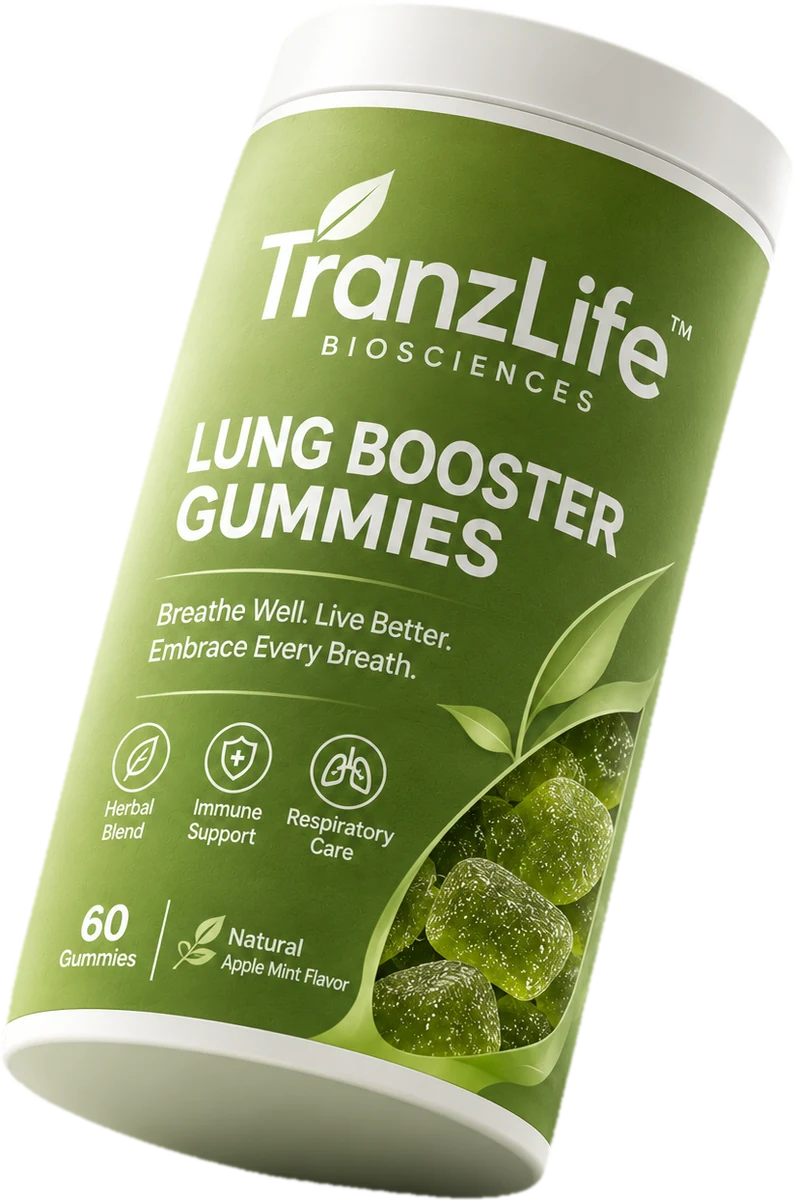
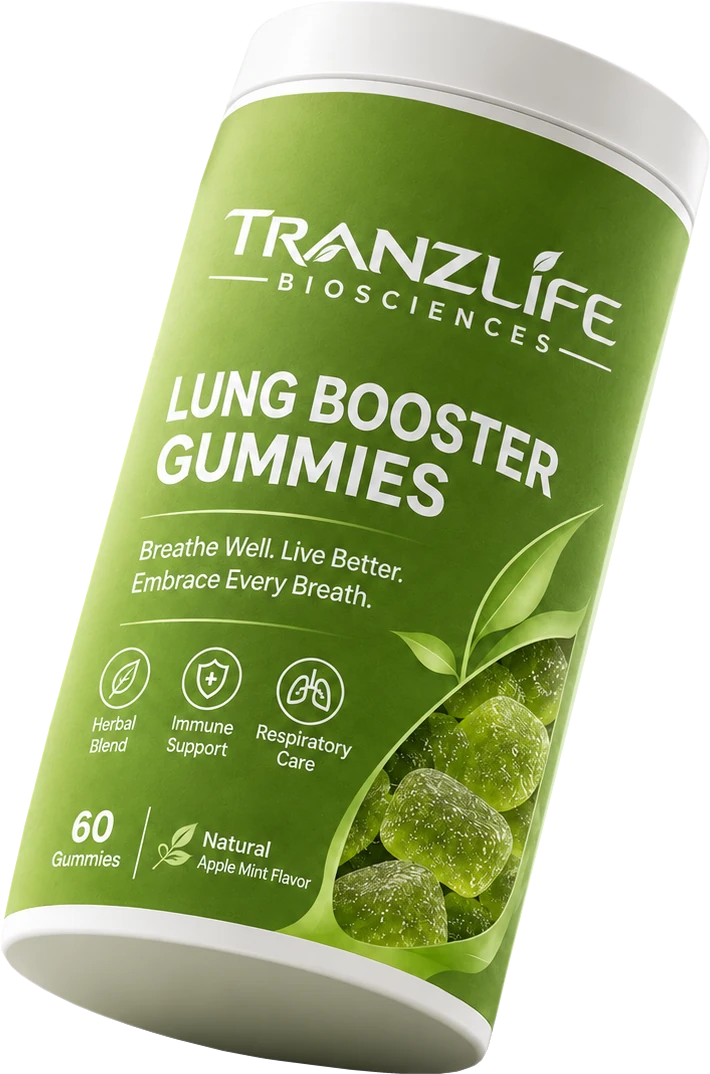
New gummies photo, shop cards without "TranzLife", Reviva card for diabetics
- New Lung Booster Gummies shop photo and cut-out (TRANZLIFE BIOSCIENCES tub)
- Shop card titles drop the "TranzLife" prefix (data names unchanged)
- Gummies story card titled "Lung booster gummies" instead of "Breathe well"
- Reviva story card: "For diabetics" label and description

diff --git a/src/data/product-story.js b/src/data/product-story.js
@@ -1,9 +1,10 @@
 // Product story cards (one per product, same order as PRODUCTS). Facts from the client's product sheet (Nov 2026).
 const STORY = [
-  { t:['Breathe', 'well'], d:'Sixty berry-flavoured PulmoClear gummies: Ayurvedic botanicals with Vitamin C, D3 and Zinc, for everyday respiratory wellness.', note:'Embrace every breath ♡', ic:'leaf', c:'#7a9e45' },
+  { t:['Lung booster', 'gummies'], d:'Sixty berry-flavoured PulmoClear gummies: Ayurvedic botanicals with Vitamin C, D3 and Zinc, for everyday respiratory wellness.', note:'Embrace every breath ♡', ic:'leaf', c:'#7a9e45' },
   { t:['Breathe', 'free'], d:'Six essential oils in a pocket inhaler. Slow, deep breaths whenever stress or a craving comes, on your way to a smoke-free life.', note:'Pocket-sized & discreet', ic:'lotus', c:'#38a58b' },
   { t:['Cycle', 'comfort'], d:'Wintergreen, peppermint, ginger, lavender and eucalyptus in a pocket roll-on, for a soothing self-care routine during your cycle.', note:'Keep one in your bag', ic:'flower', c:'#d6969f' },
-  { t:['Revive', 'daily'], d:'Dill and eucalyptus essential oils in a massage roll-on, for a refreshing morning self-care ritual.', note:'Balance. Restore. Revitalize.', ic:'spark', c:'#4d8b47' },
+  // flag: a pill under the title saying who the product is for (Reviva is made for people with diabetes, as its pack says)
+  { t:['Revive', 'daily'], flag:'For diabetics', d:'Made for people with diabetes: dill and eucalyptus essential oils in a massage roll-on, for a refreshing morning self-care ritual.', note:'Balance. Restore. Revitalize.', ic:'spark', c:'#4d8b47' },
   { t:['Liver', 'care'], d:'Eleven traditional botanicals in a polyherbal liquid, to support normal liver function, digestion and everyday well-being.', note:'Liver care, naturally', ic:'drop', c:'#a4b955' },
   { t:['Everyday', 'energy'], d:'A herbal and bioactive oral liquid, designed to support everyday energy and stamina alongside an active lifestyle.', note:'Made for active days', ic:'sun', c:'#c98a3c' }
 ];

diff --git a/src/products-page/data/product-story.js b/src/products-page/data/product-story.js
@@ -1,6 +1,6 @@
 // Product story cards for the Products page (one per product, same order as PRODUCTS).
 const STORY = [
-  { t:['Breathe', 'well'], d:'Tulsi, Vasaka, dry ginger and long pepper with vitamin C, D3 and zinc, in an easy berry-flavoured gummy.', note:'Embrace every breath ♡', ic:'leaf', c:'#e49a52' },
+  { t:['Lung booster', 'gummies'], d:'Tulsi, Vasaka, dry ginger and long pepper with vitamin C, D3 and zinc, in an easy berry-flavoured gummy.', note:'Embrace every breath ♡', ic:'leaf', c:'#e49a52' },
   { t:['Breathe', 'free'], d:'Six essential oils in a pocket inhaler, for relaxation and freshness on your way to a smoke-free life.', note:'Rediscover your balance', ic:'lotus', c:'#38a58b' },
   { t:['Every', 'cycle'], d:'CycleRelief: wintergreen, peppermint, ginger, lavender and eucalyptus in a roll-on made with comfort in mind.', note:'Celebrate every you', ic:'flower', c:'#d6969f' },
   { t:['Revive', 'daily'], d:'Dill and eucalyptus essential oils in a massage roll-on, for a refreshing daily self-care ritual.', note:'Balance. Restore. Revitalize.', ic:'spark', c:'#4d8b47' },

diff --git a/src/styles/sections/product-story.css b/src/styles/sections/product-story.css
@@ -12,6 +12,7 @@
 .sc-k{font-weight:700;font-stretch:85%;font-size:13px;letter-spacing:.12em;text-transform:uppercase;color:rgba(255,255,255,.9)}
 .sc h3{font-size:clamp(3.4rem,7.4vh,5.6rem);font-stretch:64%;font-weight:850;text-transform:uppercase;line-height:.86;margin-top:10px;text-shadow:0 2px 0 rgba(31,70,35,.08)}
 .sc h3 span{display:block}
+.sc-flag{display:inline-block;margin-top:16px;padding:8px 18px;border-radius:999px;background:#fff;color:color-mix(in srgb,var(--c) 70%,#1d4424);font-weight:800;font-stretch:85%;font-size:15px;letter-spacing:.14em;text-transform:uppercase;box-shadow:0 8px 20px -12px rgba(31,70,35,.55)}
 .sc-d{display:flex;gap:12px;align-items:flex-start;text-align:left;margin:18px auto 0;max-width:36ch;font-size:17px;font-weight:600;line-height:1.3;color:#1f4423}
 .sc-i{flex:none;width:26px;height:26px;color:#fff;margin-top:2px}
 /* the real products, cut out of the client's designs; positioned by features/product-story/product-story.js */

diff --git a/src/features/products/product-grid.js b/src/features/products/product-grid.js
@@ -18,7 +18,7 @@ function buildGrid(){
       <div class="pc-media">${thumbImg(p, '', true)}<span class="pc-tag">${p.tag}</span><button class="pc-view" type="button" data-design="${p.id}">View design <i aria-hidden="true">↗</i></button></div>
       <div class="pc-body">
         <p class="pc-no">${p.no} / ${String(PRODUCTS.length).padStart(2, '0')}</p>
-        <h3>${p.name}</h3>
+        <h3>${p.name.replace(/^TranzLife\s+/i, '')}</h3>
         <p class="pc-d">${p.desc}</p>
         <div class="pc-foot"><span class="pc-price">${inr(p.price)}<small>${p.size}</small></span><button class="add pill" data-id="${p.id}"><i aria-hidden="true">+</i>Add to bag</button></div>
       </div>

diff --git a/src/features/product-story/product-story.js b/src/features/product-story/product-story.js
@@ -20,6 +20,7 @@ function initStory(){
       <span class="sc-st">${icon(s.ic)}</span>
       <p class="sc-k">${PRODUCTS[i].no} · ${PRODUCTS[i].name}</p>
       <h3><span>${s.t[0]}</span><span>${s.t[1]}</span></h3>
+      ${s.flag ? `<p class="sc-flag">${s.flag}</p>` : ''}
       <p class="sc-d">${icon('spark', 'sc-i')}${s.d}</p>
     </article>`).join('');
   $('#seqNotes').innerHTML = STORY.map((s, i) => `<p class="sn ${i % 2 ? 'sn-l' : 'sn-r'}">${s.note}<svg viewBox="0 0 120 60" aria-hidden="true"><path d="${i % 2 ? 'M110 8C80 10 50 24 30 48m0 0l2-14m-2 14l13-5' : 'M10 8c30 2 60 16 80 40m0 0l-2-14m2 14l-13-5'}"/></svg></p>`).join('');

diff --git a/src/data/products.js b/src/data/products.js
@@ -58,7 +58,8 @@ export const PRODUCTS = [
     id: 'reviva',
     no: '04',
     short: 'Reviva',
-    // A massage roll-on for external use. Its pack also makes blood-sugar / diabetes claims: never used on the site.
+    // A massage roll-on for external use, made for people with diabetes (the story card says so). Its pack's
+    // blood-sugar claims are not used on the site.
     name: 'TranzLife Reviva Roll-On',
     cat: 'rollon',
     tag: 'Daily Self-Care',

diff --git a/docs/changelog.md b/docs/changelog.md
@@ -1,5 +1,12 @@
 # Changelog
 
+## v14.7 (28 Nov 2026): new gummies photo, shorter card names, Reviva for diabetics
+- New Lung Booster Gummies photo (the tub with the TRANZLIFE BIOSCIENCES wordmark): the shop photo (`gummies.webp`) and the cut-out in the hero, home story and shop cards (`gummies-cut.webp`). The 3D model still shows the old label (`decal-gummies.webp`) until the flat label artwork comes.
+- Shop cards show the name without "TranzLife" (Lung Booster Gummies, BreatheFree Aromatherapy Inhaler, ...). The bag, orders and image descriptions keep the full name.
+- The gummies story card (home and Products page) is titled "Lung booster gummies", was "Breathe well".
+- Reviva's home story card has a "For diabetics" label and says it is made for people with diabetes, as its pack does. Its blood-sugar claims stay off the site.
+- Benefits section: the table lists what goes into each product (ingredients and pack facts), with its three key benefits above it.
+
 ## v14.6 (28 Nov 2026): product content from the official product sheet
 - Every product's text now follows the client's "Tranzlife Biosciences Products.pdf": the home story, benefits table, product finder, shop cards, Products page showcase and lineup, product pages (highlights, ingredients, how to use, cautions, storage, pack), before / after slider, R&D board and the Tulsi chat's product facts.
 - Corrections: Reviva is a massage roll-on with dill and eucalyptus (not "diabetic foot care"); CycleRelief is 8 ml with wintergreen, peppermint, ginger, lavender and eucalyptus in sesame oil, rolled onto the lower abdomen, back or wrists (not rosemary and rose, not 50 ml, not around the belly button); Liver Booster is a 500 ml polyherbal concoction with 11 botanicals (the chat said 200 ml and 13); Lung Booster gummies are berry-flavoured (not apple mint) and their serving follows the pack; the inhaler is the BreatheFree Aromatherapy Inhaler, for a smoke-free journey; Energy Booster adds stamina, hormonal and immune wellness from its key benefits.
